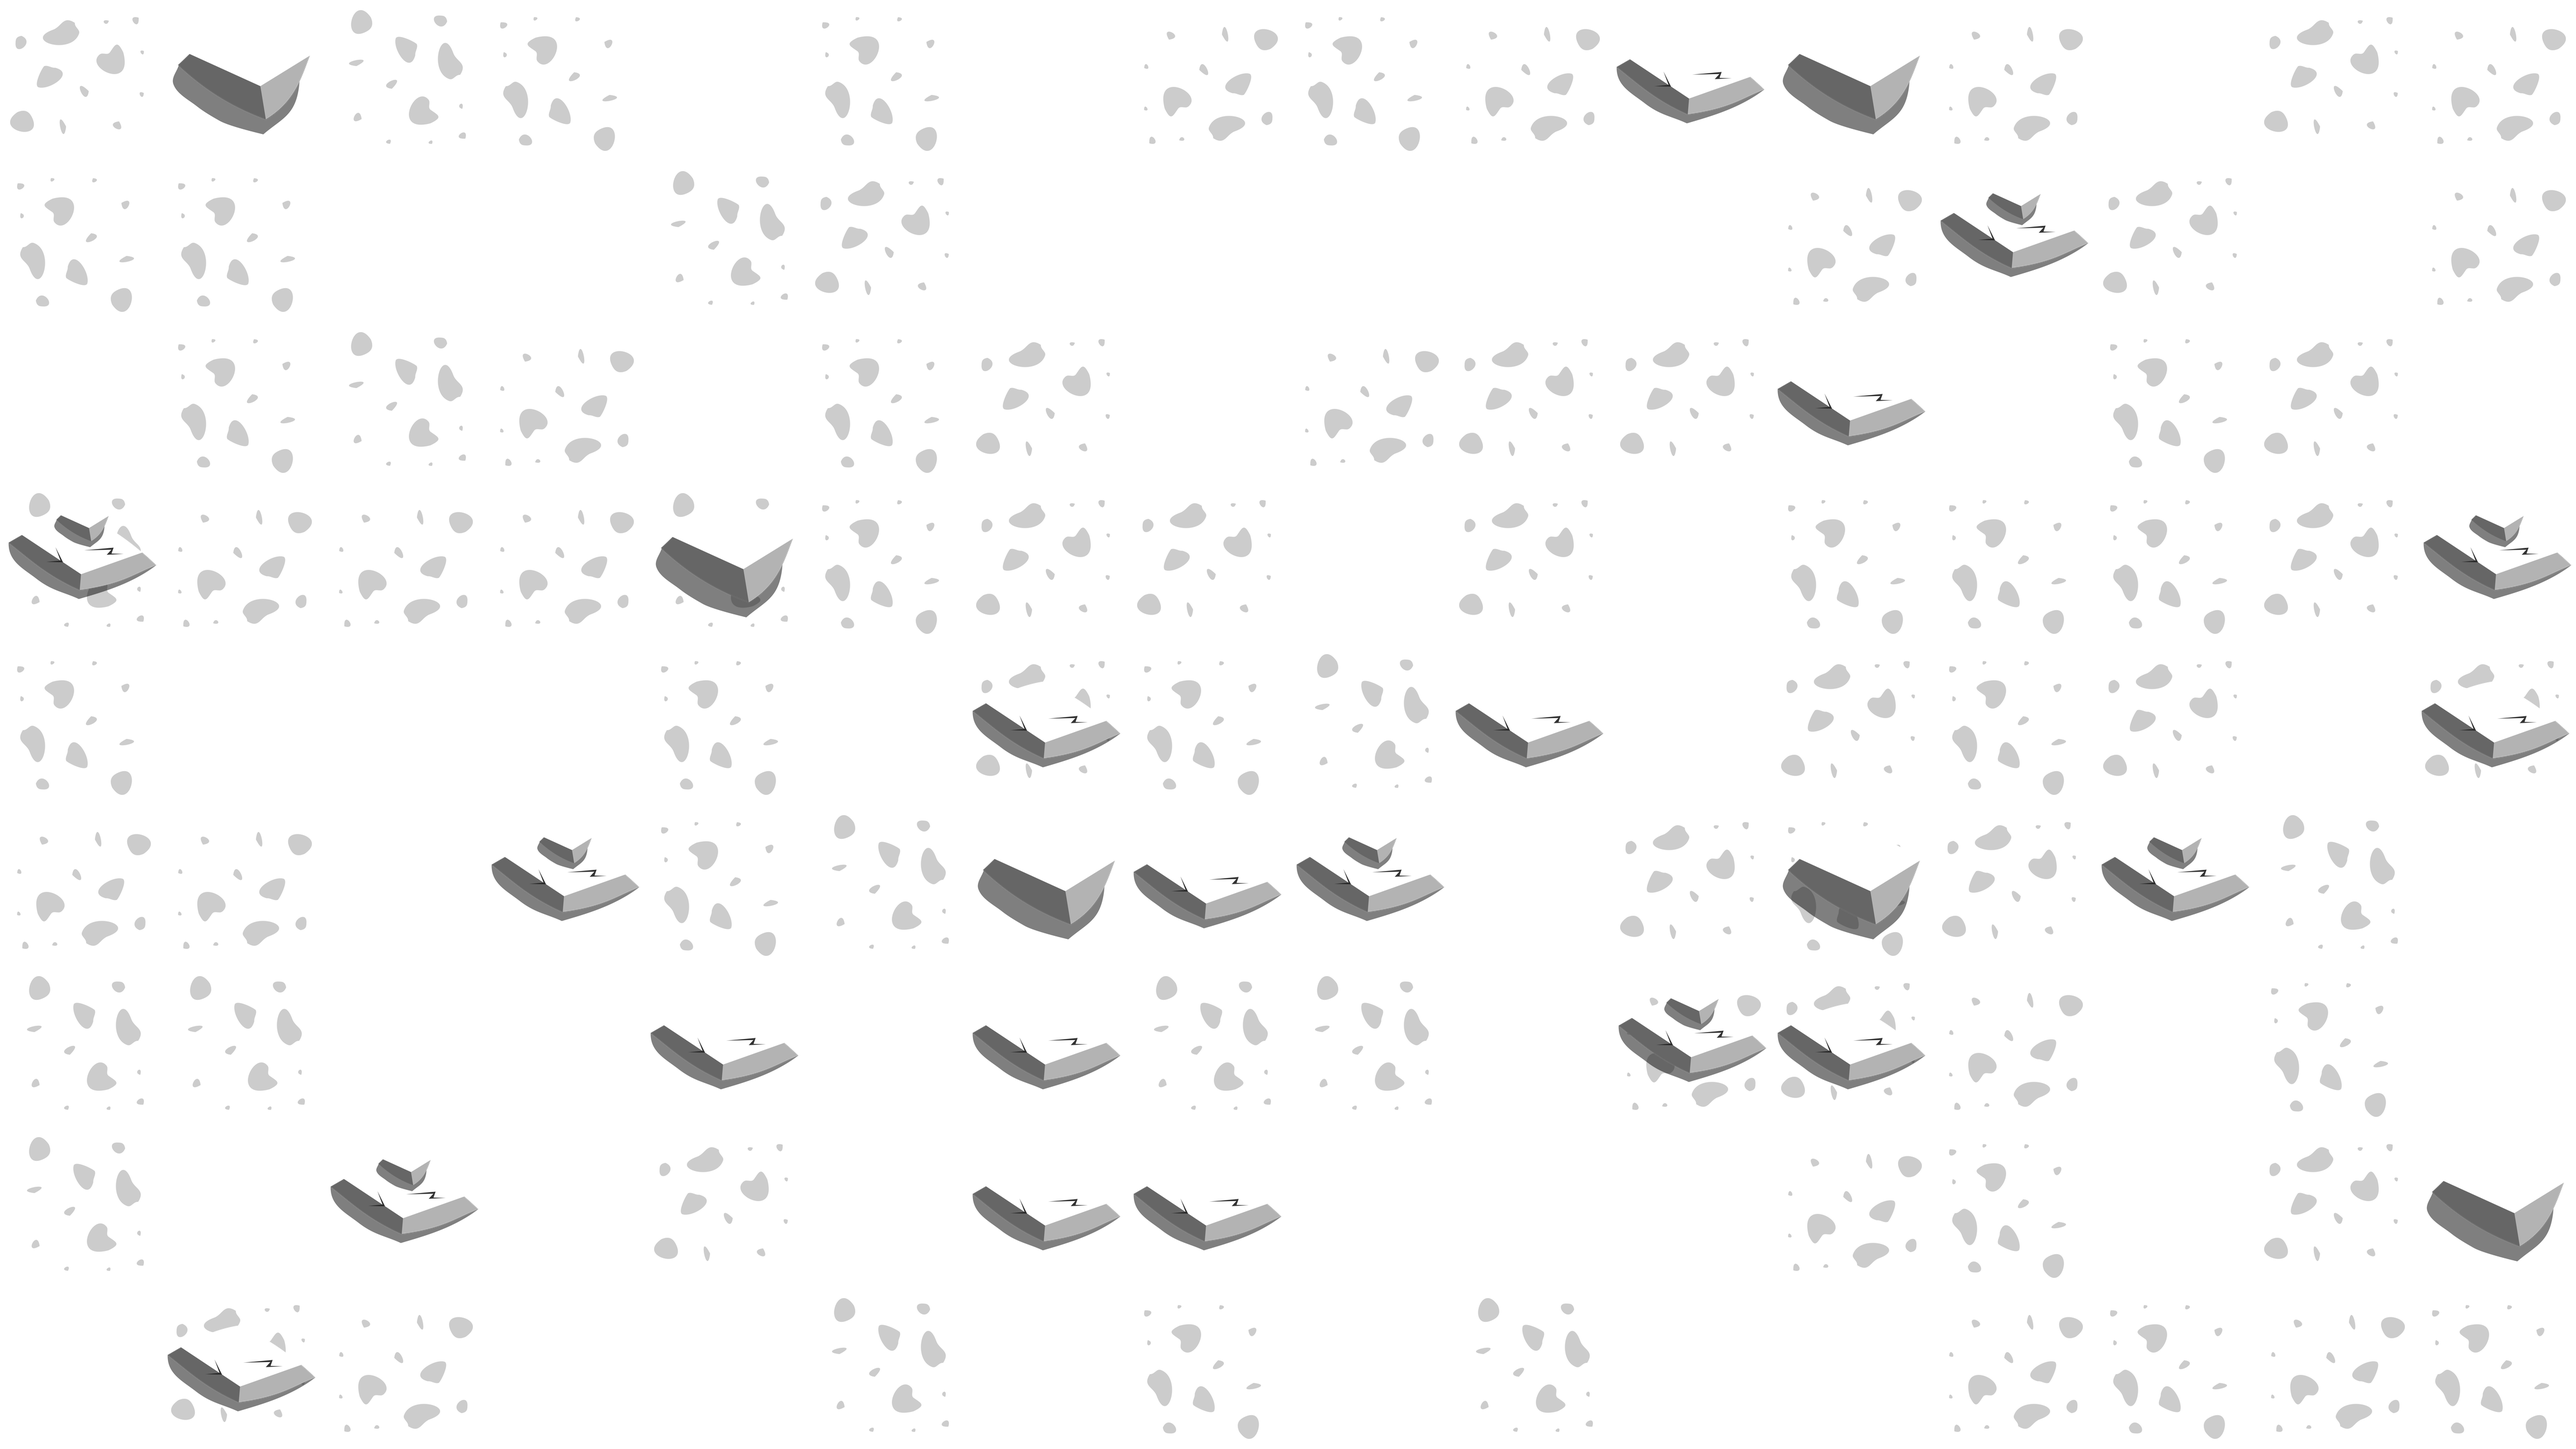
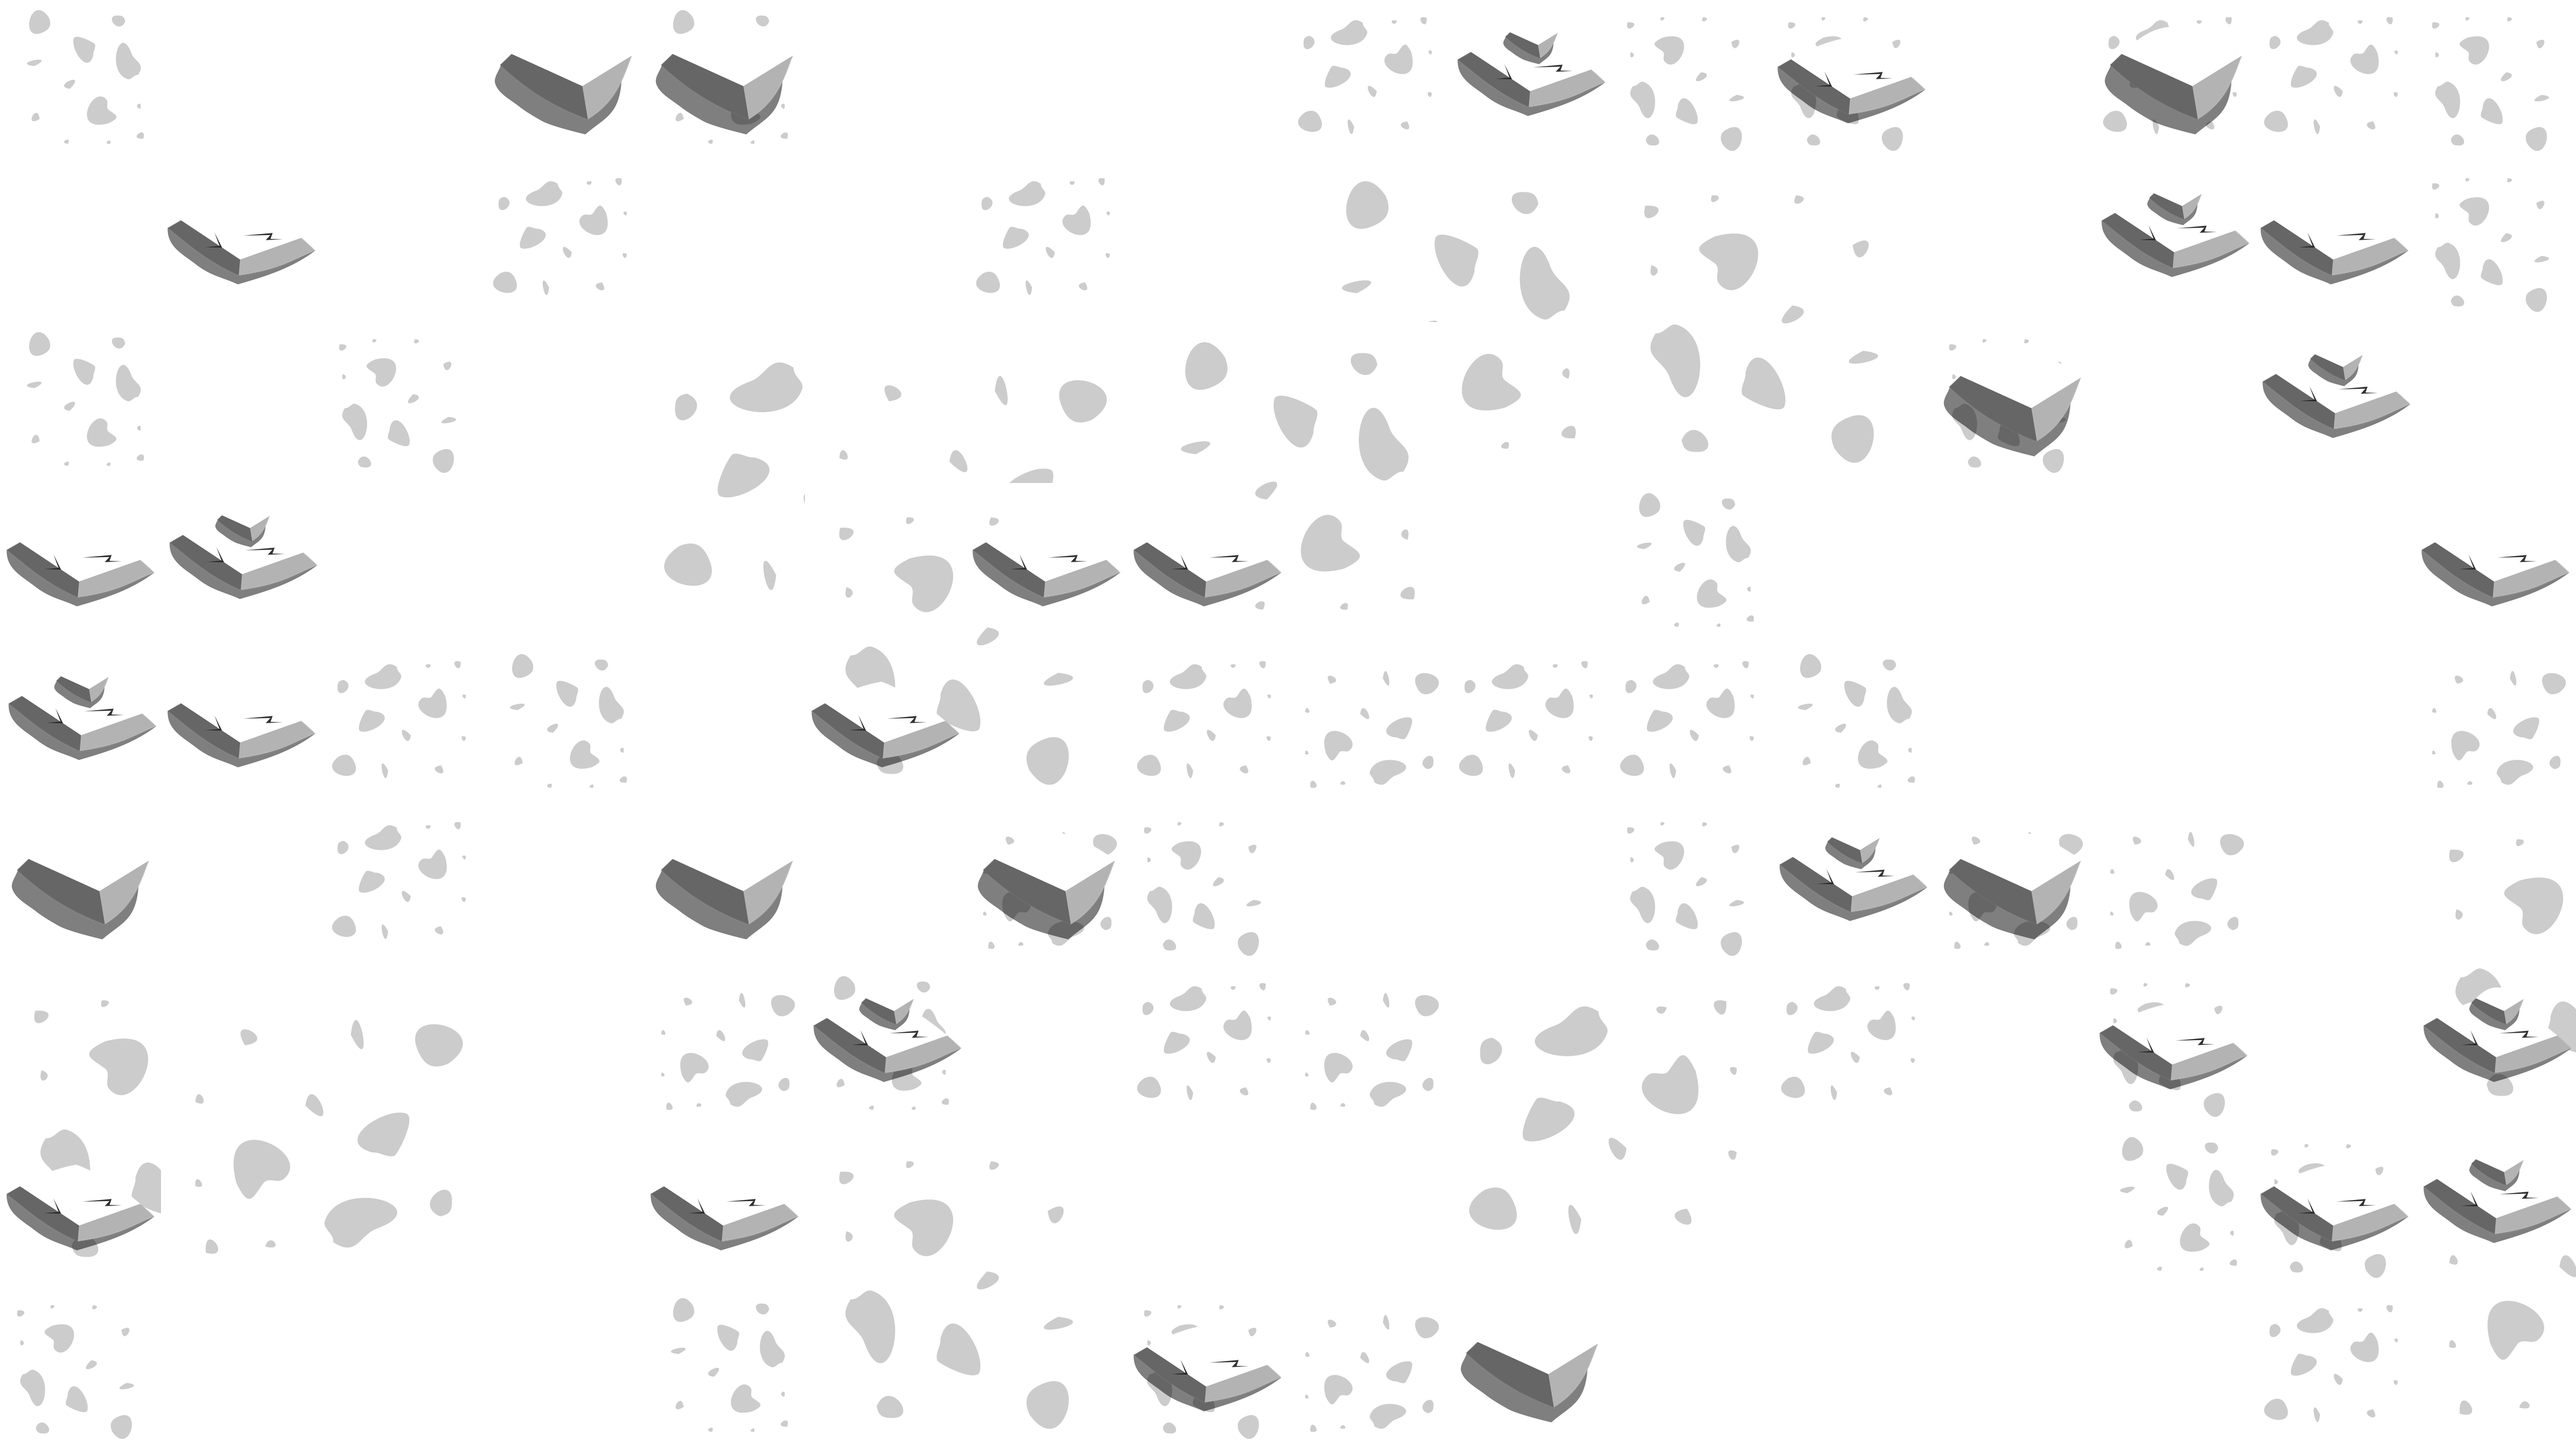
Add initial background, tilemap data for testing

diff --git a/data/background.tsx b/data/background.tsx
@@ -1,43 +1,43 @@
 <?xml version="1.0" encoding="UTF-8"?>
-<tileset version="1.9" tiledversion="1.9.2" name="background" tilewidth="512" tileheight="512" tilecount="13" columns="0">
+<tileset version="1.10" tiledversion="1.10.1" name="background" tilewidth="512" tileheight="512" tilecount="13" columns="0">
  <grid orientation="orthogonal" width="1" height="1"/>
  <tile id="0">
   <image width="256" height="256" source="background/ground_white.png"/>
  </tile>
- <tile id="1" probability="0.1">
+ <tile id="1" probability="0.2">
   <image width="256" height="256" source="background/ground2_white256_0.png"/>
  </tile>
- <tile id="2" probability="0.1">
+ <tile id="2" probability="0.2">
   <image width="256" height="256" source="background/ground2_white256_1.png"/>
  </tile>
- <tile id="3" probability="0.1">
+ <tile id="3" probability="0.2">
   <image width="256" height="256" source="background/ground2_white256_2.png"/>
  </tile>
- <tile id="4" probability="0.1">
+ <tile id="4" probability="0.2">
   <image width="256" height="256" source="background/ground2_white256_3.png"/>
  </tile>
- <tile id="5" probability="0.025">
+ <tile id="5" probability="0.02">
   <image width="512" height="512" source="background/ground2_white512_0.png"/>
  </tile>
- <tile id="6" probability="0.025">
+ <tile id="6" probability="0.02">
   <image width="512" height="512" source="background/ground2_white512_1.png"/>
  </tile>
- <tile id="7" probability="0.025">
+ <tile id="7" probability="0.02">
   <image width="512" height="512" source="background/ground2_white512_2.png"/>
  </tile>
- <tile id="8" probability="0.025">
+ <tile id="8" probability="0.02">
   <image width="512" height="512" source="background/ground2_white512_3.png"/>
  </tile>
- <tile id="9" probability="0.01">
+ <tile id="9" probability="0.025">
   <image width="256" height="256" source="background/ground3_white.png"/>
  </tile>
- <tile id="10" probability="0.05">
+ <tile id="10" probability="0.1">
   <image width="256" height="256" source="background/rock1.png"/>
  </tile>
- <tile id="11" probability="0.05">
+ <tile id="11" probability="0.1">
   <image width="256" height="256" source="background/rock2.png"/>
  </tile>
- <tile id="12" probability="0.05">
+ <tile id="12" probability="0.1">
   <image width="256" height="256" source="background/rock3.png"/>
  </tile>
 </tileset>

diff --git a/data/data.py b/data/data.py
@@ -12,16 +12,19 @@ def save_image(img, path, file):
 
 
 class Animated2DCharacterData:
-    src_root = '2DAnimatedVectorCharacters/'
+    src_root = 'C:/Users/gatew/Projects/RGS_Dev-2DAnimatedVectorCharacters/'
     dst_root = 'C:/Users/gatew/Projects/PyLink/data/'
     
     def build_data(self):
         self.__create_dirs()
 
-        # resize animations
-        self.__resize_dir('_Char3_NoHands/', 'player/')
-        # self._resize_images('_Weapon_R2/', 'weapon/')  # TODO: weapon anims?
+        # resize animation frames
+        self.__resize_dir('Full body animated characters/Char 3/no hands/', 
+                          'player/')
 
+        # TODO: resize environment dir (ground and rock textures)
+        # TODO: resize extras dir (bullet, crosshair, muzzle textures)
+        # TODO: resize weapons dir
         # resize textures
         src_path = os.path.join(self.src_root, 'Textures/')
         # dst_path = os.path.join(self.dst_root, 'textures/')
@@ -48,10 +51,15 @@ class Animated2DCharacterData:
                            dst_path, file)
             print(dst_dir + file)
 
+    # TODO: resize environment dir (ground and rock textures)
+    # TODO: resize extras dir (bullet, crosshair, muzzle textures)
+    # TODO: resize weapons dir
+
     def __resize_textures(self, file, img):
         # resize textures (ground, weapons, etc.) from 2048px to various sizes
         match file:
-            # weapon effects
+
+            # weapon effects  # NOTE: EXTRAS/
             case 'bullet.png' | 'crosshair.png' | 'muzzle.png':
                 # output bullet (2048x2048) and crosshair (64x64) and
                 # muzzle (2048x2048) in multiple sizes                        
@@ -69,12 +77,14 @@ class Animated2DCharacterData:
                     img64 = img.copy()
                 save_image(img64, self.dst_root, file + '64' + ext)
                 print(f'data.py -> {file}: resized and saved')
-            # weapon images
+
+            # weapon images  # NOTE: WEAPONS/
             case 'weaponR1.png' | 'weaponR2.png' | 'weaponR3.png':
                 # weapons are 2048px; poor fit w/player @ 256px; try 128x128px
                 img128 = img.resize((128,128))
                 save_image(img128, self.dst_root, file)
-            # ground and rock textures
+
+            # ground and rock textures  # NOTE: ENVIRONMENT/
             case 'ground2_white.png':
                 # detailed ground texture, save image in 2 sizes and 
                 # rotated in 4 directions
@@ -98,122 +108,6 @@ class Animated2DCharacterData:
 
 
 if __name__ == '__main__':
-    # run_ninja_adventure_data()
     data = Animated2DCharacterData()
     data.build_data()
     print('data.py -> 2DAnimatedVectorCharacter.build_data(): success?!')
-
-
-
-class NinjaAdventureData:  
-    def __init__(self):
-        self.path = 'NinjaAdventure/'
-        self.profile = ImageCms.createProfile('sRGB')
-    
-    def _save_image(self, img, path, file):
-        # save image with correct srgb profile
-        img.save(path + file, icc_profile=
-                 ImageCms.ImageCmsProfile(self.profile).tobytes())
-
-    def resize_spritesheet(self):
-        path = self.path + '_Characters/GoldKnight/Spritesheet.png'
-        with Image.open(path) as img:
-            img32 = img.resize((img.width * 2, img.height * 2), 0)
-            self._save_image(img32, self.path, 'spritesheet.png')
-    
-    def resize_anim_images(self):
-        if not os.path.exists(os.path.join(self.path, 'frames32/')):
-            os.mkdir(os.path.join(self.path, 'frames32/'))
-        src_path = self.path + '_Characters/GoldKnight/SeparateAnim/'
-        for file in os.listdir(src_path):
-            with Image.open(src_path + file) as img:
-                img32 = img.resize((img.width * 2, img.height * 2), 0)
-                file, ext = os.path.splitext(file.lower())
-                if img32.width != 32:  # image is multiple frames
-                    dst_path = self.path
-                else:
-                    dst_path = self.path + 'frames32/'
-                self._save_image(img32, dst_path, file + ext)
-    
-    def _direction(self, i):
-        match (i):
-            case 0:
-                return 'down'
-            case 1:
-                return 'up'
-            case 2:
-                return 'left'
-            case 3:
-                return 'right'
-            case _:
-                return ''
-    
-    def _split_frames(self, anim):
-        tile_size = 32
-        with Image.open(self.path + anim + '.png') as img:
-            for i in range(4):
-                box = (i * tile_size, 0,                      # x, y
-                       i * tile_size + tile_size, tile_size)  # right, bottom
-                frame = img.crop(box)
-                path = self.path + 'frames32/'
-                file = anim + '_' + self._direction(i) + '.png'
-                self._save_image(frame, path, file)
-    
-    def split_anim_frames(self):
-        # split anim strips into individual tiles for each direction
-        for anim in ['attack', 'idle', 'jump']:
-            self._split_frames(anim)
-        # split walk spritesheet into animations (4 tiles) for each direction
-        with Image.open(self.path + 'walk.png') as img:
-            for row in range(4):
-                for col in range(4):
-                    left = col * 32
-                    upper = row * 32
-                    right = left + 32
-                    lower = upper + 32
-                    box = (left, upper, right, lower)
-                    frame = img.crop(box)
-                    path = self.path + 'frames32/'
-                    file = 'walk_' + self._direction(col) + '_' + str(row)
-                    self._save_image(frame, path, file + '.png')
-    
-    def resize_frames(self):
-        # scale frames to 64x64 for zelda tutorial
-        path = os.path.join(self.path, 'frames64/')
-        if not os.path.exists(path):
-            os.mkdir(path)
-        for file in os.listdir(self.path + 'frames32/'):
-            with Image.open(self.path + 'frames32/' + file) as img32:
-                img64 = img32.resize((img32.width * 2, img32.height * 2), 0)
-                self._save_image(img64, path, file)
-    
-    def resize_tilesets_32(self):
-        path = os.path.join(self.path, 'tilesets32/')
-        if not os.path.exists(path):
-            os.mkdir(path)
-        for root, dirs, files in os.walk(self.path + '_Tilesets/'):
-            for file in files:
-                with Image.open(root + '/' + file) as img:
-                    img32 = img.resize((img.width * 2, img.height * 2), 0)
-                    if file == 'Elements.png':
-                        file = 'InteriorElements.png'
-                    self._save_image(img32, path, file.lstrip('Tileset'))
-    
-    def resize_tilesets_64(self):
-        dst_path = os.path.join(self.path, 'tilesets64/')
-        if not os.path.exists(dst_path):
-            os.mkdir(dst_path)
-        src_path = self.path + 'tilesets32/'
-        for file in os.listdir(src_path):
-            with Image.open(src_path + file) as img:
-                img64 = img.resize((img.width * 2, img.height * 2), 0)
-                self._save_image(img64, dst_path, file)
-
-def run_ninja_adventure_data():
-    data = NinjaAdventureData()
-    data.resize_spritesheet()
-    data.resize_anim_images()
-    data.split_anim_frames()
-    data.resize_frames()
-    data.resize_tilesets_32()
-    data.resize_tilesets_64()
